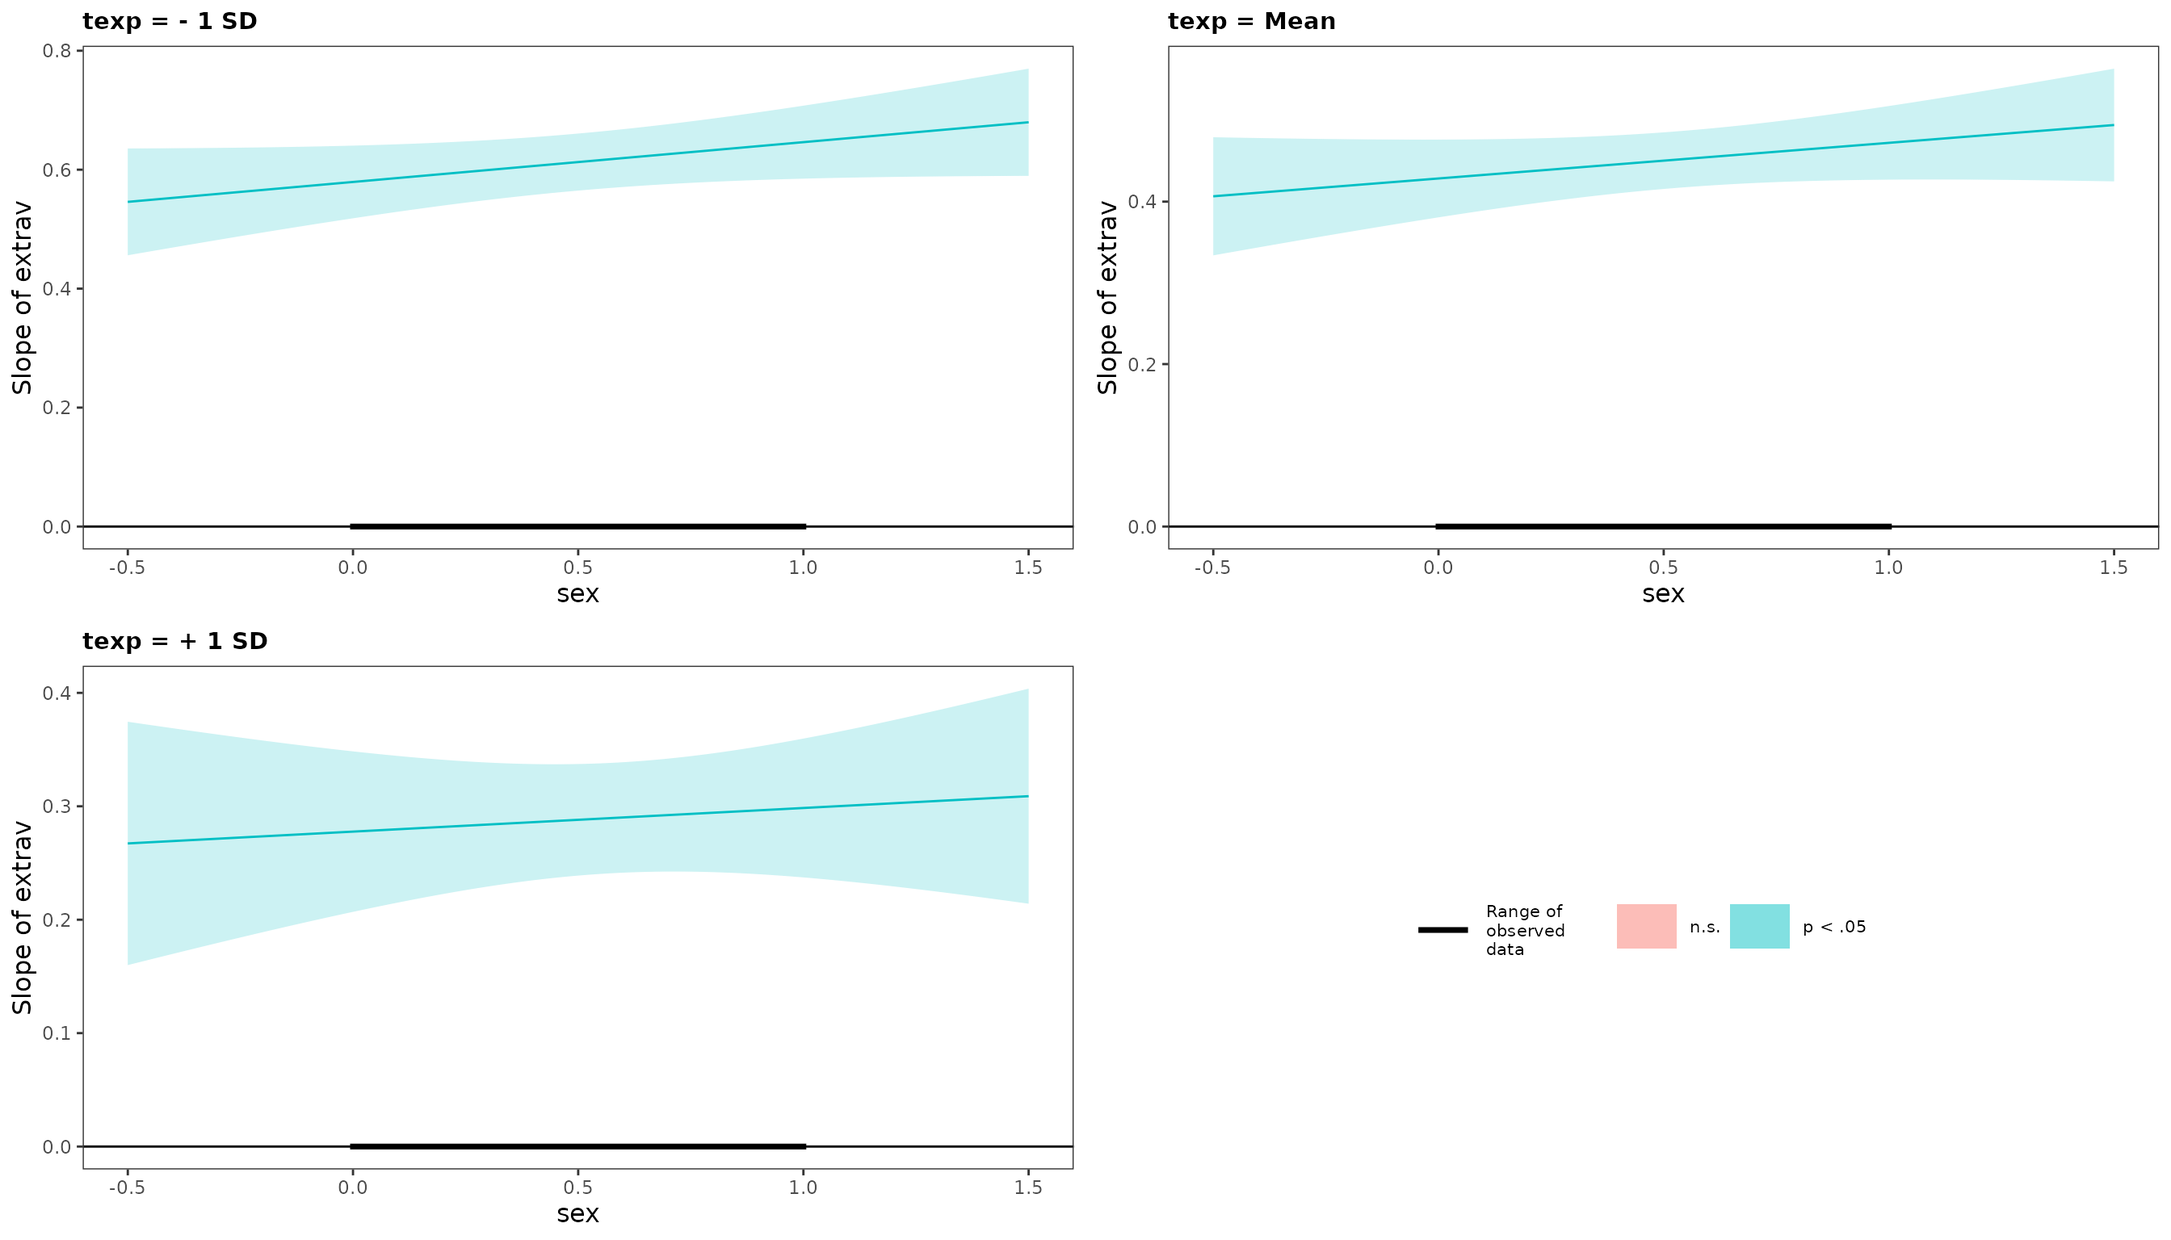
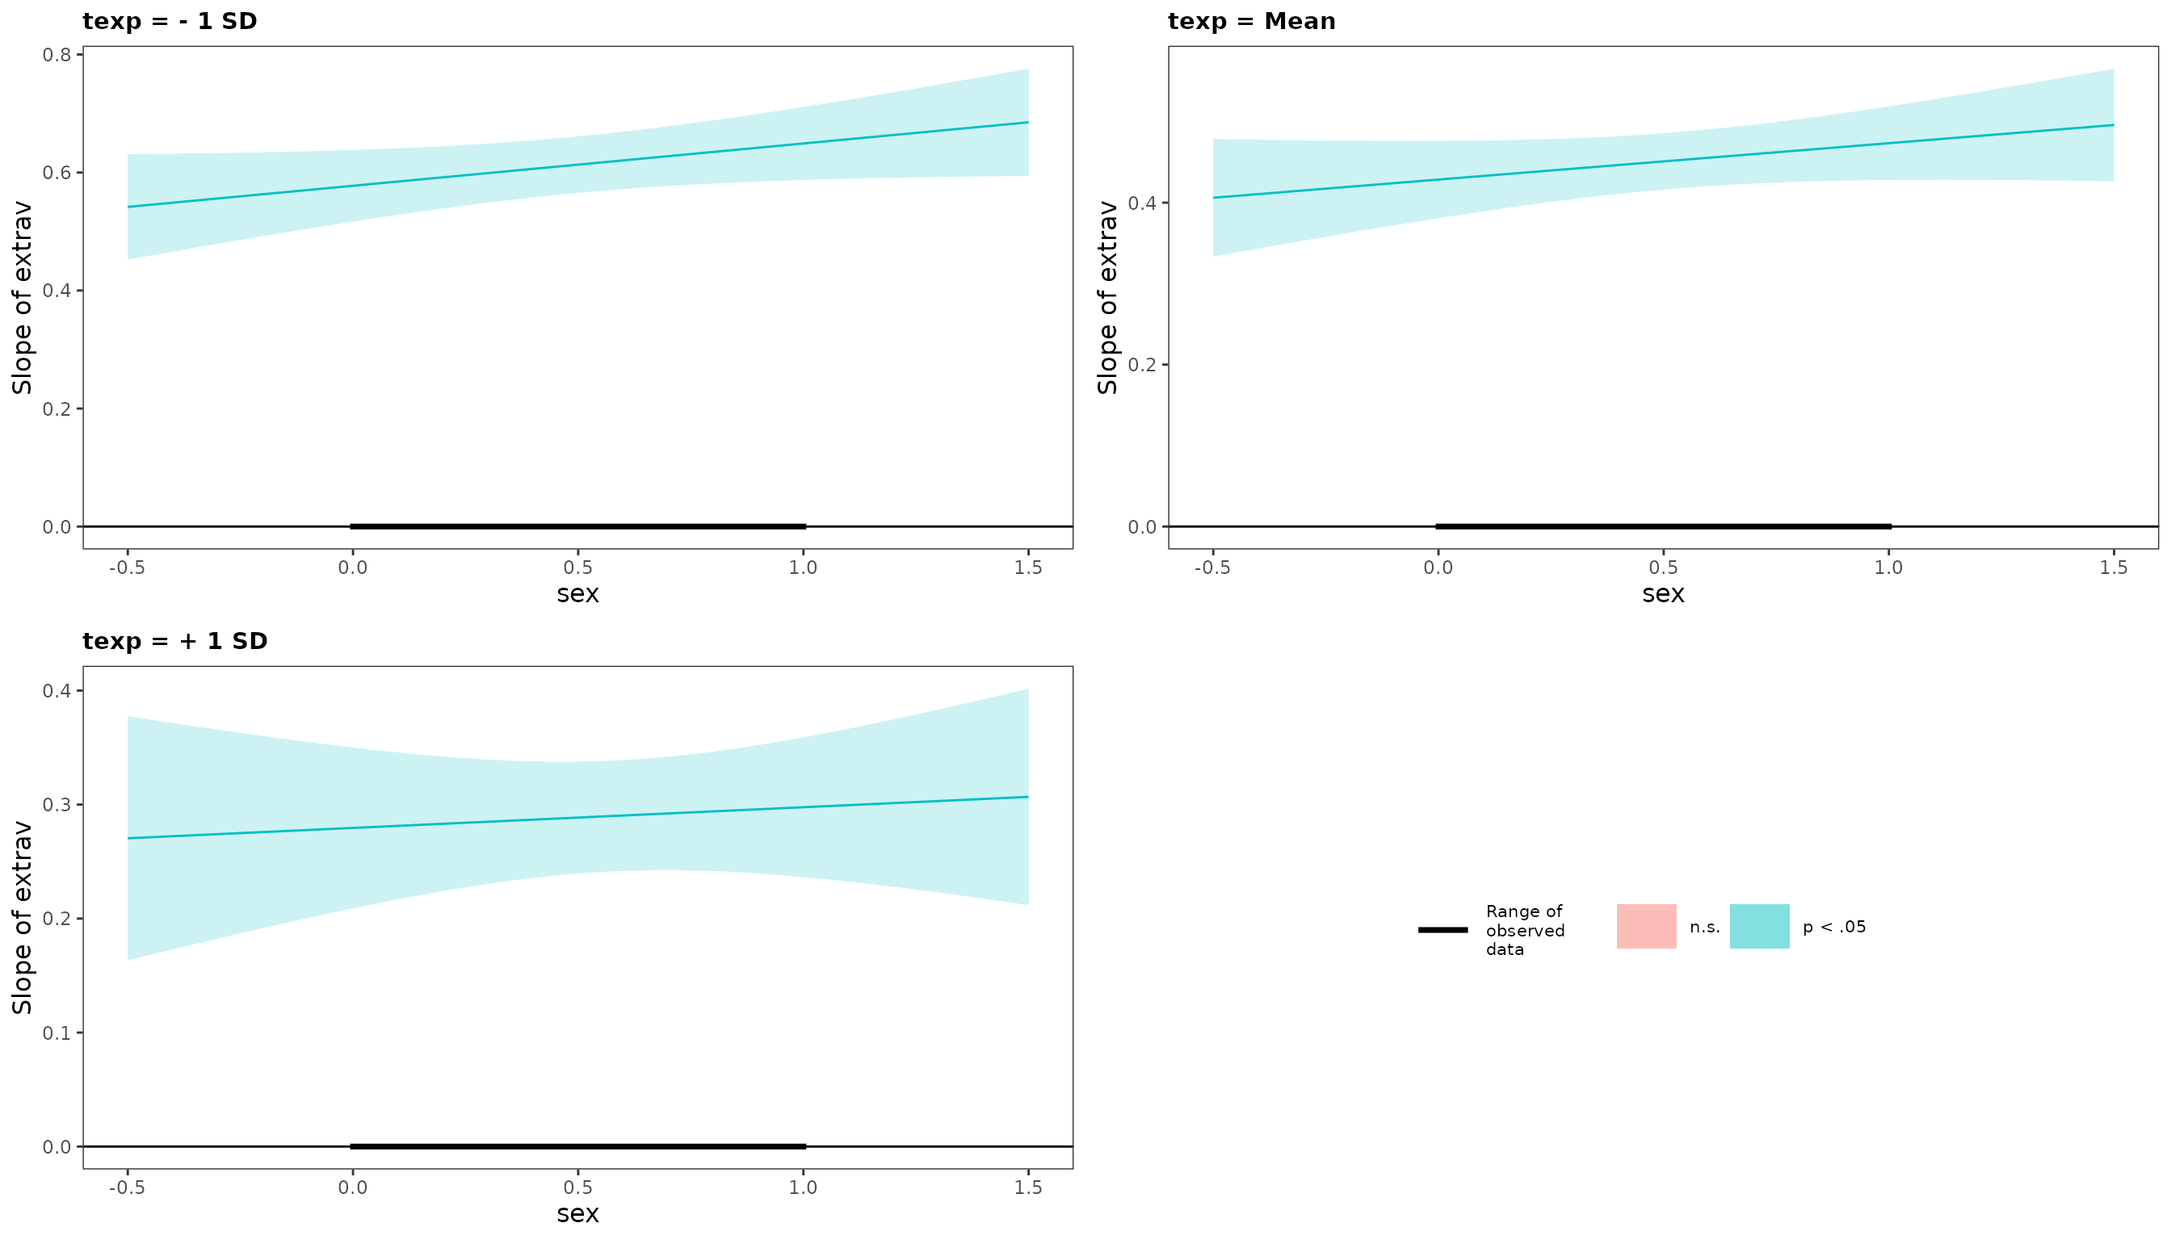
Built site for psycModel: 0.3.1@49edc77

diff --git a/articles/quick-introduction.html b/articles/quick-introduction.html
@@ -179,7 +179,7 @@ Predictors = Sepal.Width, Petal.Length, Petal.Width, Species
 ───────────────────────────────────────────────────
 
 </span><span style="text-decoration: underline;">Model Assumption Check</span><span>
-OK: Residuals appear to be independent and not autocorrelated (p = 0.988).
+OK: Residuals appear to be independent and not autocorrelated (p = 0.992).
 OK: residuals appear as normally distributed (p = 0.892).
 </span><span style="color: #0000BB;">Unable to check autocorrelation. Try changing na.action to na.omit.</span><span>
 Warning: Heteroscedasticity (non-constant error variance) detected (p = 0.047).
@@ -214,11 +214,11 @@ Warning: Heteroscedasticity (non-constant error variance) detected (p = 0.047).
 <p>This is the multilevel-variation of <code>integrated_model_summary</code>. It works exactly the same way as <code>integrated_model_summary</code> except you need to specify the non_random_effect_factors (i.e., level-2 factors) and the random_effect_factors (i.e., the level-1 factors) instead of <code>predictor_variable</code>.</p>
 <div class="sourceCode" id="cb3"><pre class="downlit sourceCode r">
 <code class="sourceCode R"><span class="fu"><a href="../reference/integrated_multilevel_model_summary.html">integrated_multilevel_model_summary</a></span><span class="op">(</span>
-   data <span class="op">=</span> <span class="va">popular</span>,
-   response_variable <span class="op">=</span> <span class="va">popular</span>,
-   random_effect_factors <span class="op">=</span> <span class="fu"><a href="https://rdrr.io/r/base/c.html">c</a></span><span class="op">(</span><span class="va">extrav</span>, <span class="va">sex</span><span class="op">)</span>,
-   non_random_effect_factors <span class="op">=</span> <span class="va">texp</span>,
-   three_way_interaction_factor <span class="op">=</span> <span class="fu"><a href="https://rdrr.io/r/base/c.html">c</a></span><span class="op">(</span><span class="va">extrav</span>, <span class="va">sex</span>, <span class="va">texp</span><span class="op">)</span>,
+    data <span class="op">=</span> <span class="va">popular</span>,
+    response_variable <span class="op">=</span> <span class="va">popular</span>,
+    random_effect_factors <span class="op">=</span> <span class="va">extrav</span>,
+    non_random_effect_factors <span class="op">=</span> <span class="fu"><a href="https://rdrr.io/r/base/c.html">c</a></span><span class="op">(</span><span class="va">sex</span>, <span class="va">texp</span><span class="op">)</span>,
+    three_way_interaction_factor <span class="op">=</span> <span class="fu"><a href="https://rdrr.io/r/base/c.html">c</a></span><span class="op">(</span><span class="va">extrav</span>, <span class="va">sex</span>, <span class="va">texp</span><span class="op">)</span>,
    graph_label_name <span class="op">=</span> <span class="fu"><a href="https://rdrr.io/r/base/c.html">c</a></span><span class="op">(</span><span class="st">"popular"</span>, <span class="st">"extraversion"</span>, <span class="st">"sex"</span>, <span class="st">"teacher experience"</span><span class="op">)</span>, <span class="co"># change interaction plot label</span>
    id <span class="op">=</span> <span class="va">class</span>,
    model_summary <span class="op">=</span> <span class="cn">TRUE</span>, 
@@ -238,42 +238,42 @@ Predictors = extrav, sex, texp, extrav:sex, extrav:texp, sex:texp, extrav:sex:te
 ─────────────────────────────────────────────────────────────────────────────────────────
         Parameter  Effects  Coefficient       t    df     SE          p            95% CI
 ─────────────────────────────────────────────────────────────────────────────────────────
-      (Intercept)    fixed       -0.958  -2.882  1985  0.332  0.004 **   [-1.609, -0.306]
-           extrav    fixed        0.757  14.314  1985  0.053  0.000 ***  [ 0.653,  0.861]
-              sex    fixed        0.714   1.890  1985  0.378  0.059      [-0.026,  1.454]
-             texp    fixed        0.217  10.201  1985  0.021  0.000 ***  [ 0.175,  0.259]
-       extrav:sex    fixed        0.094   1.471  1985  0.064  0.141      [-0.031,  0.219]
-      extrav:texp    fixed       -0.023  -6.489  1985  0.004  0.000 ***  [-0.030, -0.016]
-         sex:texp    fixed        0.020   0.861  1985  0.024  0.389      [-0.026,  0.067]
-  extrav:sex:texp    fixed       -0.004  -0.829  1985  0.004  0.407      [-0.012,  0.005]
+      (Intercept)    fixed       -0.935  -2.839  1988  0.329  0.005 **   [-1.581, -0.290]
+           extrav    fixed        0.753  14.345  1988  0.052  0.000 ***  [ 0.650,  0.856]
+              sex    fixed        0.654   1.726  1988  0.379  0.084      [-0.089,  1.396]
+             texp    fixed        0.215  10.198  1988  0.021  0.000 ***  [ 0.174,  0.256]
+       extrav:sex    fixed        0.103   1.610  1988  0.064  0.107      [-0.022,  0.229]
+      extrav:texp    fixed       -0.023  -6.451  1988  0.004  0.000 ***  [-0.030, -0.016]
+         sex:texp    fixed        0.024   1.017  1988  0.024  0.309      [-0.022,  0.071]
+  extrav:sex:texp    fixed       -0.004  -0.961  1988  0.004  0.337      [-0.012,  0.004]
 ─────────────────────────────────────────────────────────────────────────────────────────
 
 </span><span style="text-decoration: underline;">Goodness of Fit</span><span>
-───────────────────────────────────────────────────────────────
-       AIC       BIC  R²_conditional  R²_marginal   RMSE      σ
-───────────────────────────────────────────────────────────────
-  4827.902  4911.915             NaN        0.656  0.720  0.742
-───────────────────────────────────────────────────────────────
+──────────────────────────────────────────────────────────────────────
+       AIC       BIC  R²_conditional  R²_marginal    ICC   RMSE      σ
+──────────────────────────────────────────────────────────────────────
+  4823.684  4890.894           0.709        0.554  0.349  0.721  0.743
+──────────────────────────────────────────────────────────────────────
 
 </span><span style="text-decoration: underline;">Model Assumption Check</span><span>
 </span><span style="color: #00BB00;">OK: Model is converged</span><span>
-</span><span style="color: #BB0000;">Warning: Singularity is detected. See ?lme4::isSingular()</span><span>
+</span><span style="color: #00BB00;">OK: No singularity is detected</span><span>
 Warning: Autocorrelated residuals detected (p &lt; .001).
-OK: residuals appear as normally distributed (p = 0.487).
+OK: residuals appear as normally distributed (p = 0.425).
 </span><span style="color: #0000BB;">Unable to check autocorrelation. Try changing na.action to na.omit.</span><span>
-OK: Error variance appears to be homoscedastic (p = 0.752).
+OK: Error variance appears to be homoscedastic (p = 0.758).
 </span><span style="color: #BB0000;">Warning: Severe multicolinearity detected (VIF &gt; 10). Please inspect the following table to identify high correlation factors.</span><span>
 </span><span style="text-decoration: underline;">Multicollinearity Table </span><span>
 ─────────────────────────────────────
              Term      VIF  SE_factor
 ─────────────────────────────────────
-           extrav    9.167      3.028
-              sex  107.181     10.353
-             texp    6.325      2.515
-       extrav:sex   93.909      9.691
-      extrav:texp   14.154      3.762
-         sex:texp  107.690     10.377
-  extrav:sex:texp   95.252      9.760
+           extrav    9.005      3.001
+              sex  110.249     10.500
+             texp    6.109      2.472
+       extrav:sex   95.403      9.767
+      extrav:texp   13.869      3.724
+         sex:texp  109.012     10.441
+  extrav:sex:texp   95.547      9.775
 ─────────────────────────────────────
 </span></code></pre>
 <img src="quick-introduction_files/figure-html/unnamed-chunk-3-1.png" width="700" height="400"><pre class="fansi fansi-output"><code>
@@ -281,12 +281,12 @@ OK: Error variance appears to be homoscedastic (p = 0.752).
 ────────────────────────────────────────────────────────────────────────
   texp Level  sex Level   Est.   S.E.  t val.          p          95% CI
 ────────────────────────────────────────────────────────────────────────
-         Low        Low  0.579  0.031  18.596  0.000 ***  [0.518, 0.640]
-                   High  0.646  0.031  20.660  0.000 ***  [0.585, 0.708]
-        Mean        Low  0.429  0.024  17.555  0.000 ***  [0.381, 0.476]
-                   High  0.472  0.023  20.434  0.000 ***  [0.427, 0.518]
-        High        Low  0.278  0.036   7.697  0.000 ***  [0.207, 0.348]
-                   High  0.298  0.031   9.565  0.000 ***  [0.237, 0.360]
+         Low        Low  0.578  0.031  18.659  0.000 ***  [0.517, 0.638]
+                   High  0.649  0.032  20.573  0.000 ***  [0.587, 0.711]
+        Mean        Low  0.429  0.024  17.604  0.000 ***  [0.381, 0.476]
+                   High  0.473  0.023  20.425  0.000 ***  [0.428, 0.519]
+        High        Low  0.280  0.036   7.769  0.000 ***  [0.209, 0.350]
+                   High  0.298  0.031   9.527  0.000 ***  [0.236, 0.359]
 ────────────────────────────────────────────────────────────────────────
 </span><span style="font-style: italic;">Note: For continuous variable, low and high represent -1 and +1 SD from the mean, respectively.</span><span>
 </span></code></pre>

diff --git a/index.html b/index.html
@@ -104,7 +104,7 @@
 
 <div id="psycmodel-" class="section level1">
 <div class="page-header"><h1 class="hasAnchor">
-<a href="#psycmodel-" class="anchor"></a>psycModel <a href="https://jasonmoy28.github.io/psycModel"><img src="reference/figures/logo.png" align="right" height="220px"></a>
+<a href="#psycmodel-" class="anchor"></a>psycModel <a href="https://jasonmoy28.github.io/psycModel/"><img src="reference/figures/logo.png" align="right" height="220px"></a>
 </h1></div>
 <div id="integrated-toolkit-for-psychological-analysis-and-modeling-in-r" class="section level2">
 <h2 class="hasAnchor">
@@ -125,7 +125,7 @@
 <div id="key-features" class="section level2">
 <h2 class="hasAnchor">
 <a href="#key-features" class="anchor"></a>Key Features</h2>
-<p><span style="color:#009900">✓</span> A beginner-friendly R package for statistical analysis in social science (intermediate &amp; advanced R users should also find it useful) <br><span style="color:#009900">✓</span> Tired of manually writing all variables in a model? You can use <a href="https://dplyr.tidyverse.org/reference/select.html">dplyr::select()</a> syntax for all models <br><span style="color:#009900">✓</span> Fitting models, plotting, checking goodness of fit, and model assumption violations all in one place. <br><span style="color:#009900">✓</span> Beautiful and easy-to-read output. Check out this <a href="https://jasonmoy28.github.io/psycModel/articles/quick-introduction.html">example</a> now. <br><span style="color:#009900">✓</span> In the backend, this package uses reliable R packages (e.g., <code>lavaan</code>, <code>lme4</code>, <code>psych</code>) to handle all statistical analysis. <br></p>
+<p><span style="color:#009900">✓</span> A beginner-friendly R package for statistical analysis in social science (intermediate &amp; advanced R users should also find it useful) <br><span style="color:#009900">✓</span> Tired of manually writing all variables in a model? You can use <a href="https://dplyr.tidyverse.org/reference/select.html">dplyr::select()</a> syntax for all models <br><span style="color:#009900">✓</span> Fitting models, plotting, checking goodness of fit, and model assumption violations all in one place. <br><span style="color:#009900">✓</span> Beautiful and easy-to-read output. Check out this <a href="https://jasonmoy28.github.io/psycModel//articles/quick-introduction.html">example</a> now. <br><span style="color:#009900">✓</span> In the backend, this package uses reliable R packages (e.g., <code>lavaan</code>, <code>lme4</code>, <code>psych</code>) to handle all statistical analysis. <br></p>
 </div>
 <div id="supported-models" class="section level2">
 <h2 class="hasAnchor">
@@ -189,7 +189,7 @@
 <div id="code-of-conduct" class="section level2">
 <h2 class="hasAnchor">
 <a href="#code-of-conduct" class="anchor"></a>Code of Conduct</h2>
-<p>Please note that the psycModel project is released with a <a href="https://jasonmoy28.github.io/psycModel/CODE_OF_CONDUCT.html">Contributor Code of Conduct</a>. By contributing to this project, you agree to abide by its terms.</p>
+<p>Please note that the psycModel project is released with a <a href="https://jasonmoy28.github.io/psycModel//CODE_OF_CONDUCT.html">Contributor Code of Conduct</a>. By contributing to this project, you agree to abide by its terms.</p>
 </div>
 </div>
 
